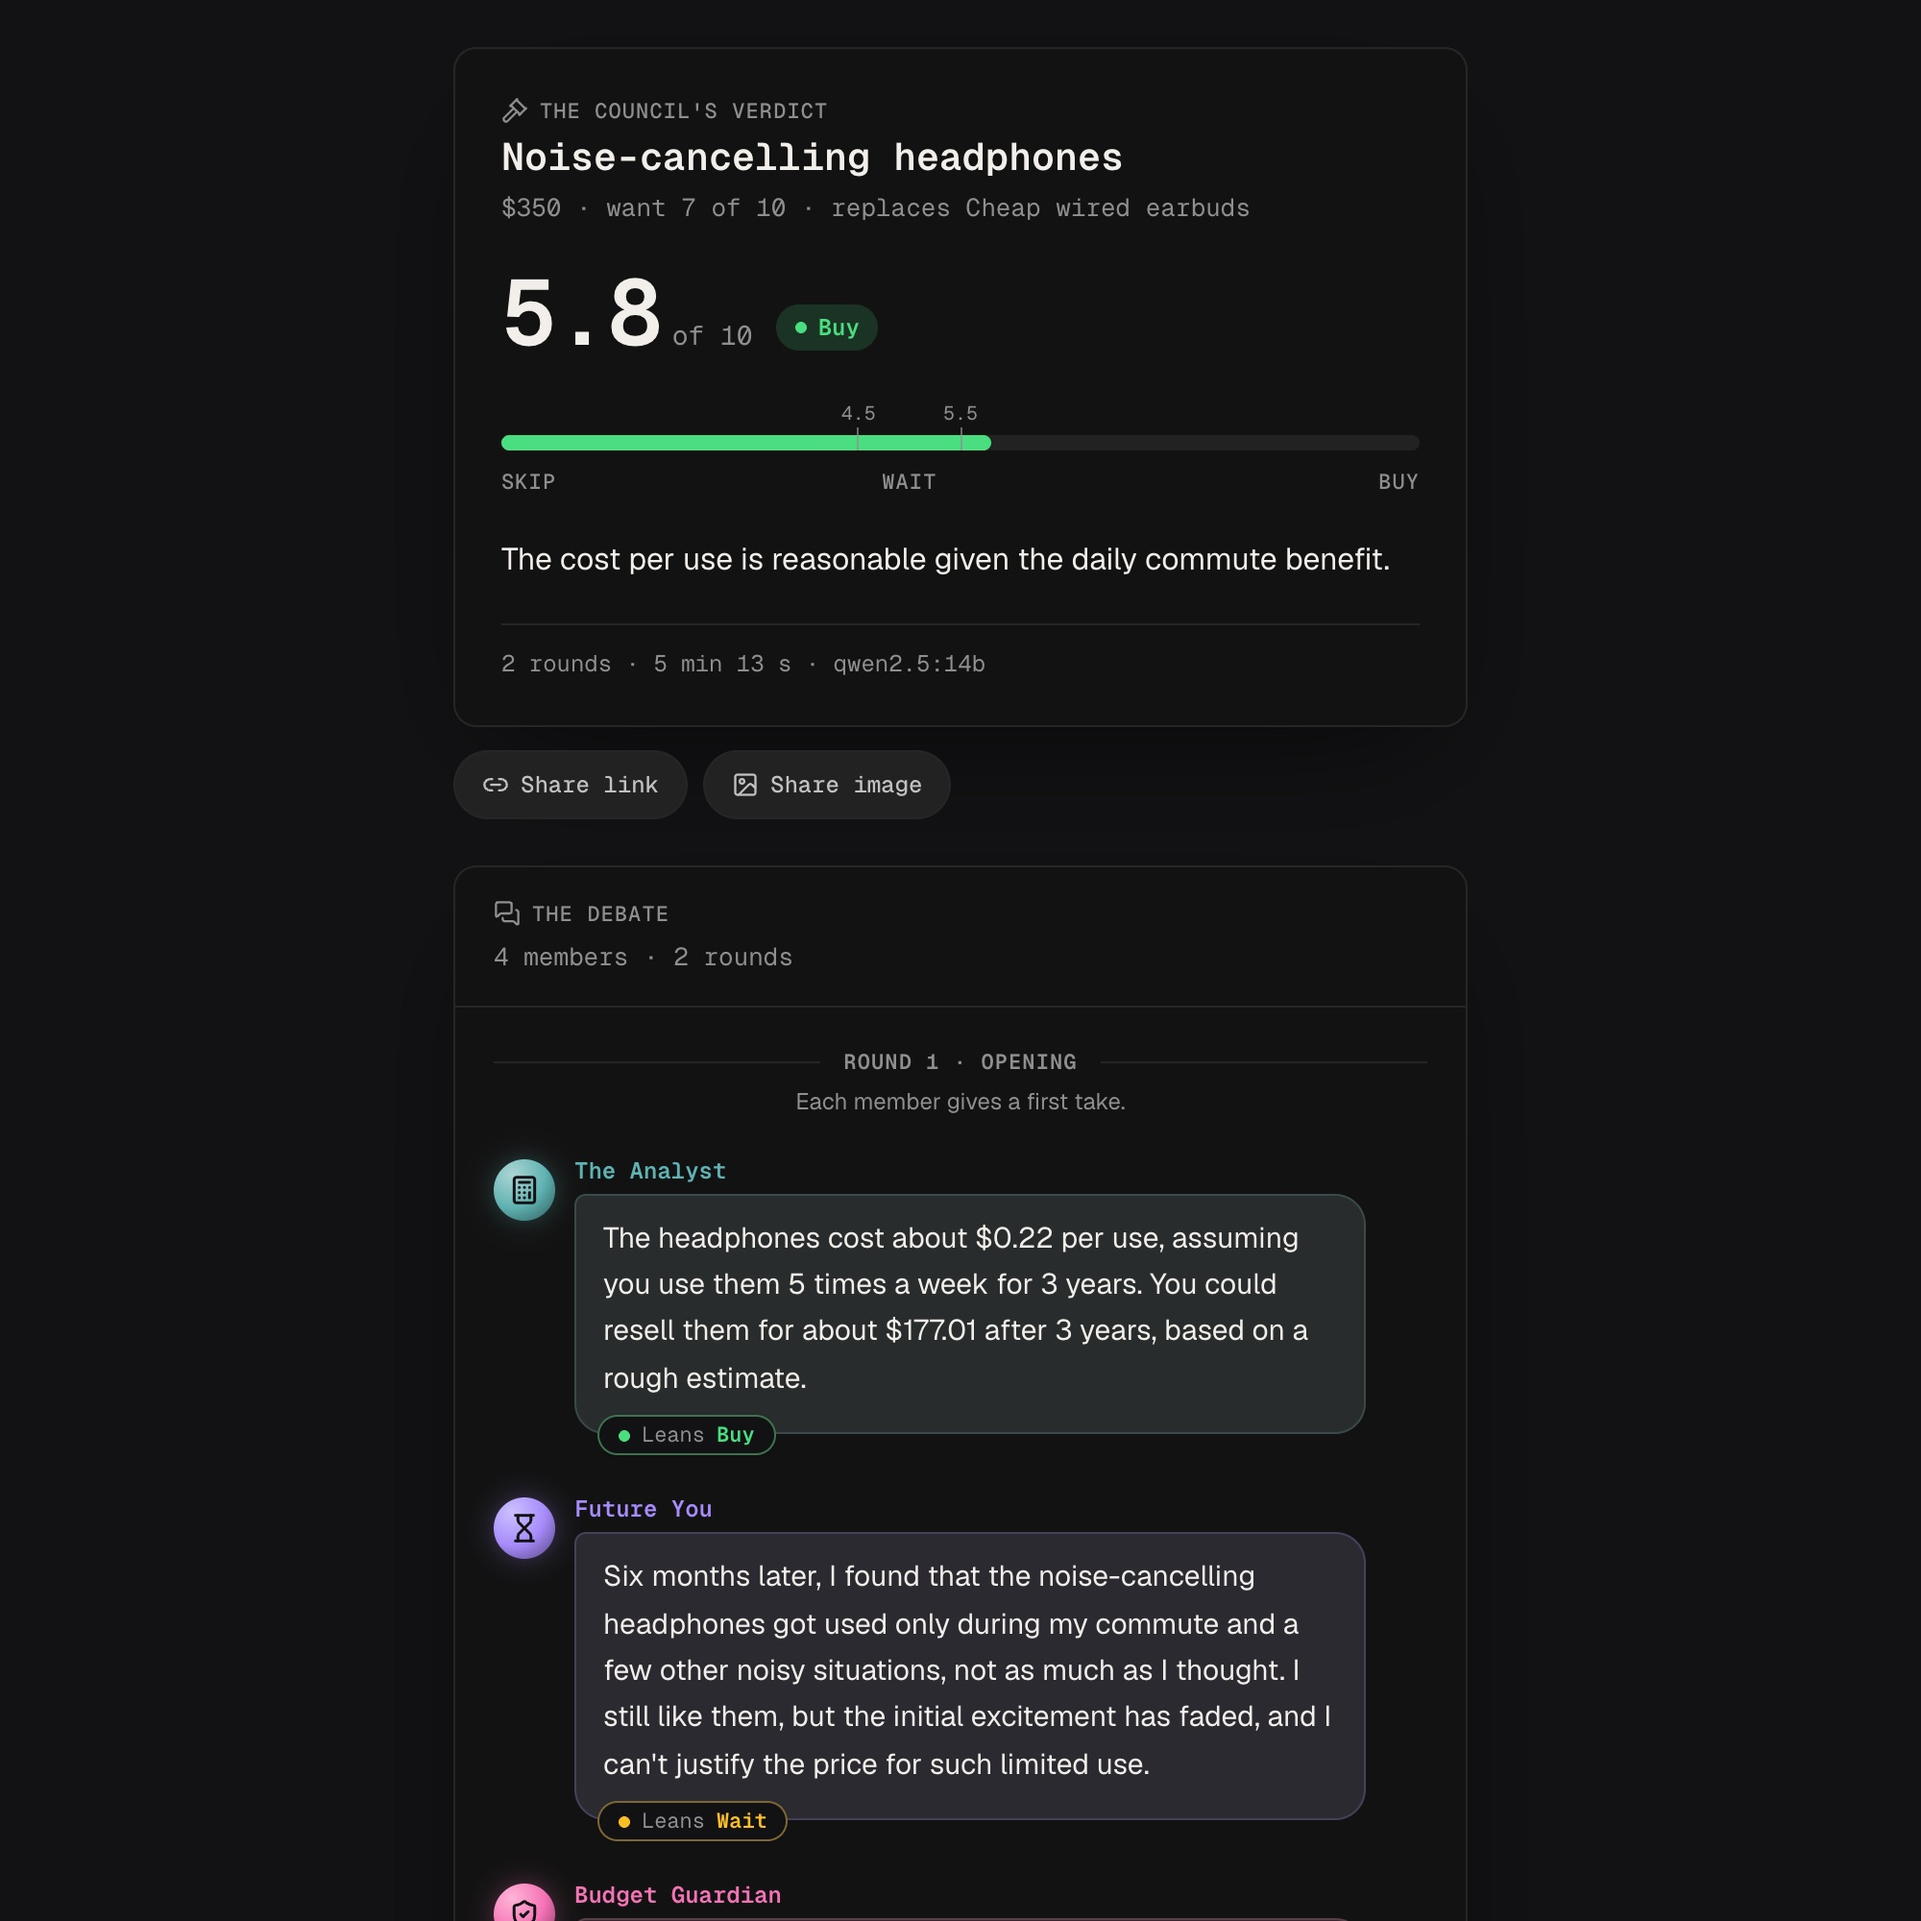
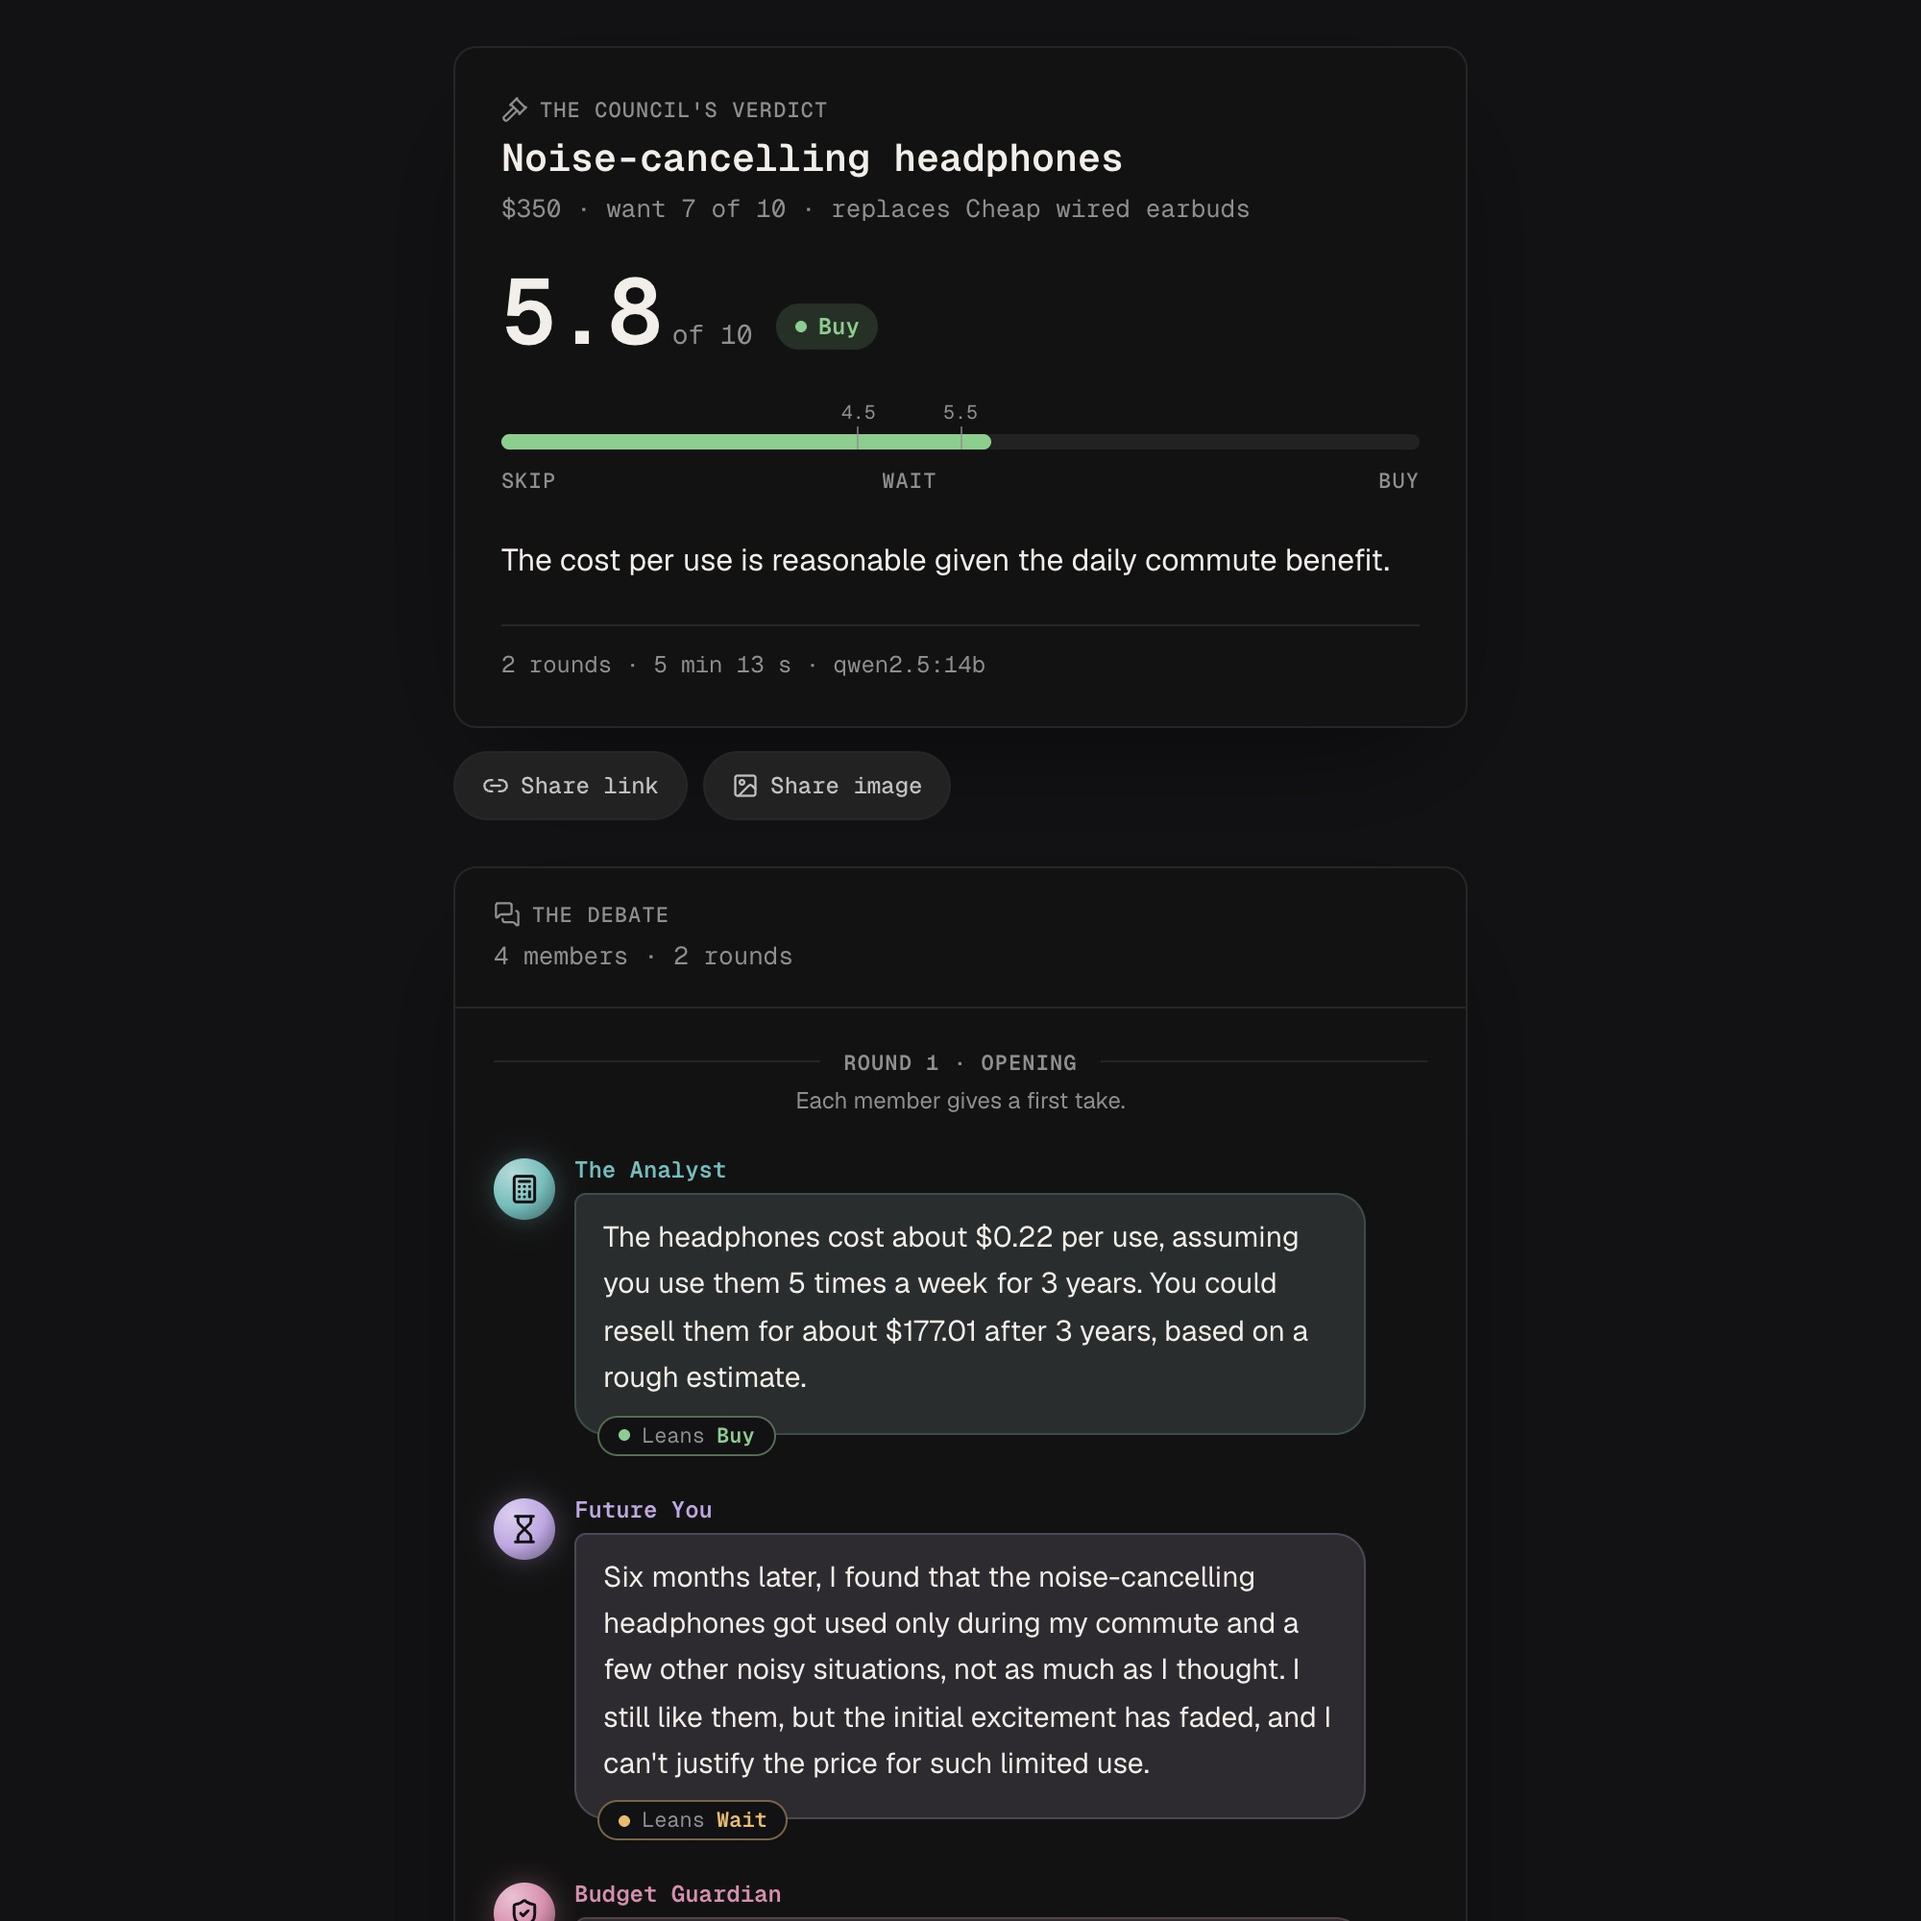
README screenshots retaken for UI v0.6
The four screenshots in docs/screenshots/ were still the v0.5 look (saturated
agent colors, no How it works section). They are retaken with
ui/scripts/screenshots.mjs against https://talk.icarianforge.com, which serves
v0.6, then converted to JPEG at quality 82 like before. Same sizes as before:
home 3200x2000, debate and under-the-hood 2000x2000, phone 780x1688.

The home screenshot now ends inside the new How it works section instead of the
gallery, so its alt text in README.md says so.

diff --git a/README.md b/README.md
@@ -35,7 +35,7 @@
 > Built by **[Dan West](https://www.icarianforge.com)**, an AI strategy and operations leader with nearly 20 years in IT, as a learning project in Python and agent design, by directing Claude Code as the engineering team. A decision helper, not financial advice; nothing here buys anything or connects to a store.
 
 <p>
-  <img src="docs/screenshots/home.jpg" width="100%" alt="The landing page: the council's five orbs, the glowing name, the hook, and the gallery of purchases below">
+  <img src="docs/screenshots/home.jpg" width="100%" alt="The landing page: the council's five orbs, the glowing name, the hook, and the start of the How it works section below">
 </p>
 <p>
   <img src="docs/screenshots/debate.jpg" width="49%" alt="A verdict card, Buy at 5.8 of 10 for noise-cancelling headphones, and the debate below it as a group chat">
